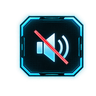
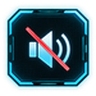
1) Иконка звука: у спрайтов sound_on/off.png были несимметричные пустые поля внутри холста (слева 14px, справа 7px, снизу 14px, сверху 10px) — из-за этого при увеличении размера рамки значок визуально 'уезжал' влево, а не рос равномерно. Обрезал сами файлы точно по границе видимого контента и пересо

diff --git a/js/ui_manager.js b/js/ui_manager.js
@@ -29,16 +29,16 @@ const UIManager = (() => {
     menu: [
       { id: 'start',    x: 100, y: 468, w: 280, h: 62 },  // НАЧАТЬ МИССИЮ
       { id: 'settings', x: 355, y: 68,  w: 110, h: 34 },  // НАСТРОЙКИ (верх справа)
-      { id: 'mute',     x: 8,   y: 10,  w: 50,  h: 50 },  // иконка звука (верх слева заякорены; +1мм ещё раз, было 48)
+      { id: 'mute',     x: 8,   y: 10,  w: 54,  h: 54 },  // иконка звука (верх слева заякорены; кроп по реальным границам спрайта — раньше растягивалась вместе с несимметричными пустыми полями внутри картинки, из-за чего визуально "уезжала" от левого края при увеличении)
     ],
     // Пауза (pause_screen.png): 5 кнопок в панели
-    paused: [  // перекалиброван по актуальному макету pause_screen.webp (13.09.2026)
-      { id: 'resume',   x: 110, y: 308, w: 260, h: 52 },  // ПРОДОЛЖИТЬ (оранжевая)
-      { id: 'settings', x: 110, y: 383, w: 260, h: 50 },  // НАСТРОЙКИ
-      { id: 'howto',    x: 110, y: 456, w: 260, h: 50 },  // КАК ИГРАТЬ -> заставка ИНСТРУКТАЖ
-      { id: 'records',  x: 110, y: 531, w: 260, h: 50 },  // РЕКОРДЫ -> заставка
-      { id: 'to_menu',  x: 110, y: 606, w: 260, h: 58 },  // ВЫЙТИ В ГЛАВНОЕ МЕНЮ
-      { id: 'resume',   x: 328, y: 222, w: 44,  h: 40 },  // X (закрыть, внутри модалки сверху-справа)
+    paused: [  // точная перекалибровка по пиксельному скану 15.09.2026 (была неточной на глаз)
+      { id: 'resume',   x: 134, y: 320, w: 211, h: 63 },  // ПРОДОЛЖИТЬ (оранжевая)
+      { id: 'settings', x: 115, y: 400, w: 250, h: 55 },  // НАСТРОЙКИ
+      { id: 'howto',    x: 115, y: 475, w: 250, h: 48 },  // КАК ИГРАТЬ -> заставка ИНСТРУКТАЖ
+      { id: 'records',  x: 115, y: 548, w: 250, h: 50 },  // РЕКОРДЫ -> заставка
+      { id: 'to_menu',  x: 115, y: 623, w: 250, h: 52 },  // ВЫЙТИ В ГЛАВНОЕ МЕНЮ
+      { id: 'resume',   x: 325, y: 227, w: 35,  h: 35 },  // X (закрыть, внутри модалки сверху-справа)
     ],
     // Настройки (settings_screen.png): пока только "назад"
     settings: [  // зоны сняты с макета settings_screen.png (16.07.2026)
@@ -190,7 +190,11 @@ const UIManager = (() => {
     ctx.lineWidth = 2;
     ctx.shadowColor = 'rgba(120,220,255,0.95)';
     ctx.shadowBlur = 16 * a;
-    ctx.strokeRect(cx - dw / 2 + 1, cy - dh / 2 + 1, dw - 2, dh - 2);
+    // Скруглённые углы вместо прямых — большинство кнопок в артах имеют
+    // скошенные/скруглённые углы, прямая strokeRect торчала за их пределы
+    ctx.beginPath();
+    ctx.roundRect(cx - dw / 2 + 1, cy - dh / 2 + 1, dw - 2, dh - 2, Math.min(14, dh / 3));
+    ctx.stroke();
     ctx.restore();
   }
 
@@ -200,6 +204,10 @@ const UIManager = (() => {
   // отдельных иконок (pause_button и т.п.) исходное изображение имеет
   // свой натуральный размер — кропаем его целиком.
   function _makeFlash(x, y, w, h, img, opts) {
+    if (opts && opts.srcRect) {
+      const s = opts.srcRect;
+      return { x, y, w, h, img, sx: s.sx, sy: s.sy, sw: s.sw, sh: s.sh, t: FLASH_DURATION };
+    }
     if (opts && opts.fullImage) {
       return { x, y, w, h, img, sx: 0, sy: 0, sw: img.naturalWidth, sh: img.naturalHeight, t: FLASH_DURATION };
     }
@@ -293,7 +301,7 @@ const UIManager = (() => {
     try {
       const img = soundIcons[_isMuted() ? 'sound_off' : 'sound_on'];
       if (img && img.complete && img.naturalWidth) {
-        ctx.drawImage(img, 8, 10, 50, 50);
+        ctx.drawImage(img, 8, 10, 54, 54);
       }
     } catch (e) { console.warn('[UI] _drawMuteIcon:', e); }
   }
